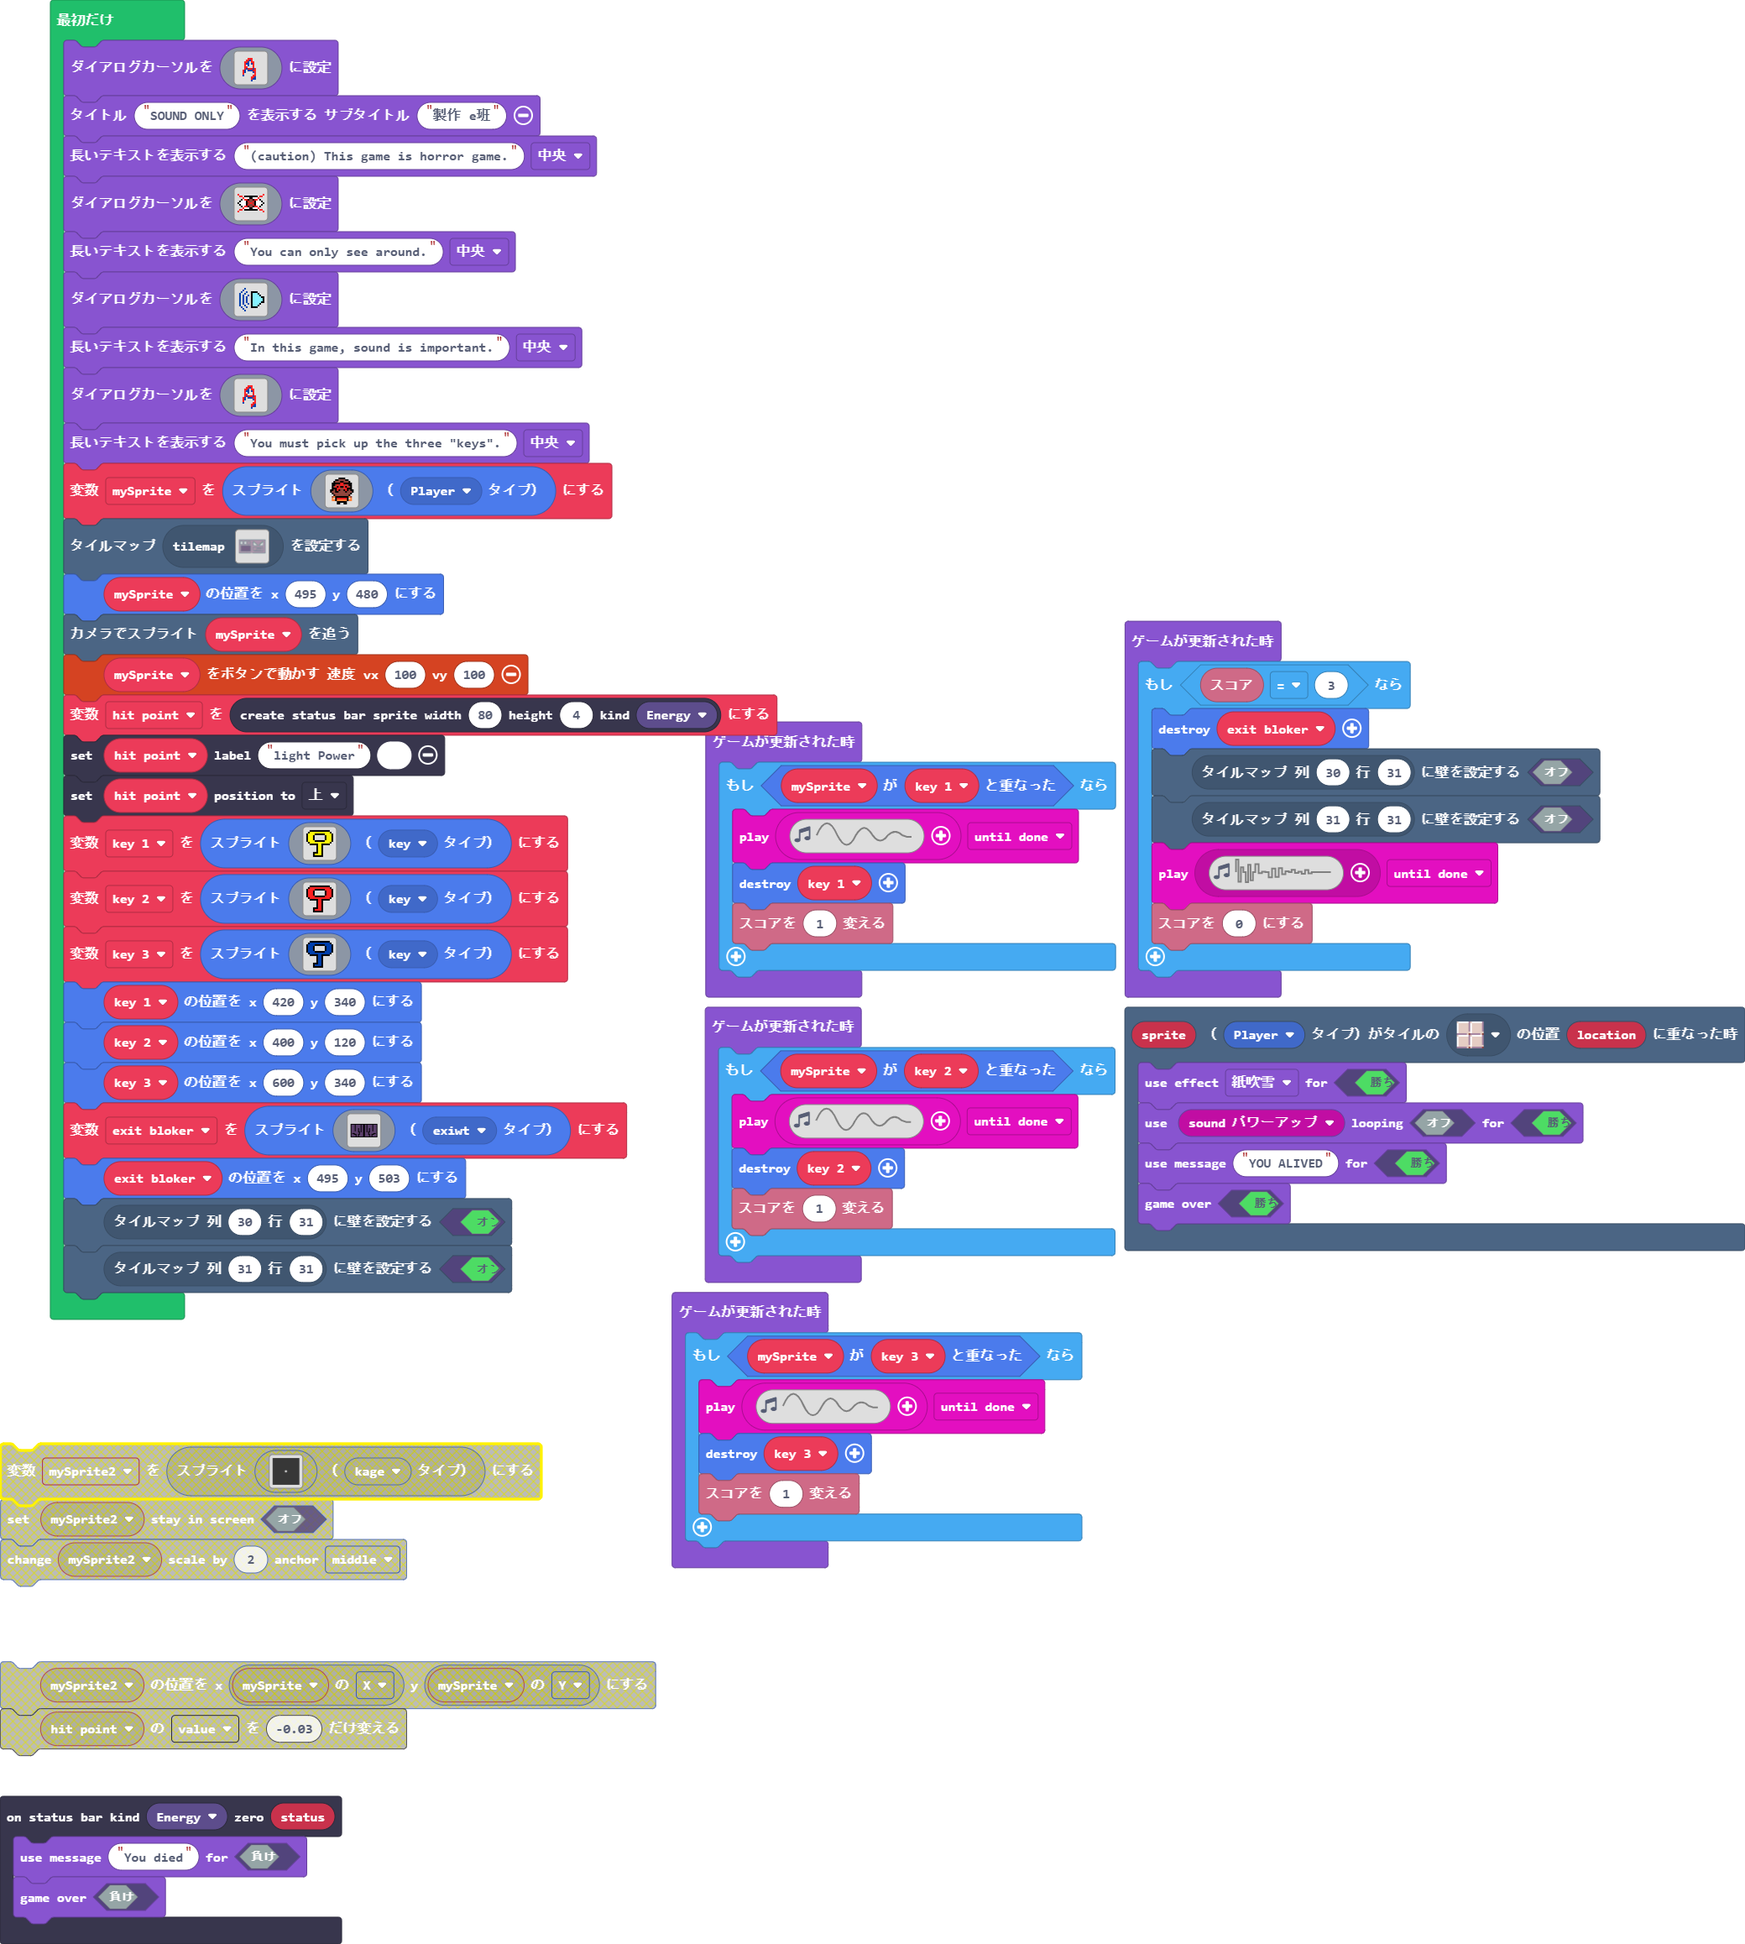
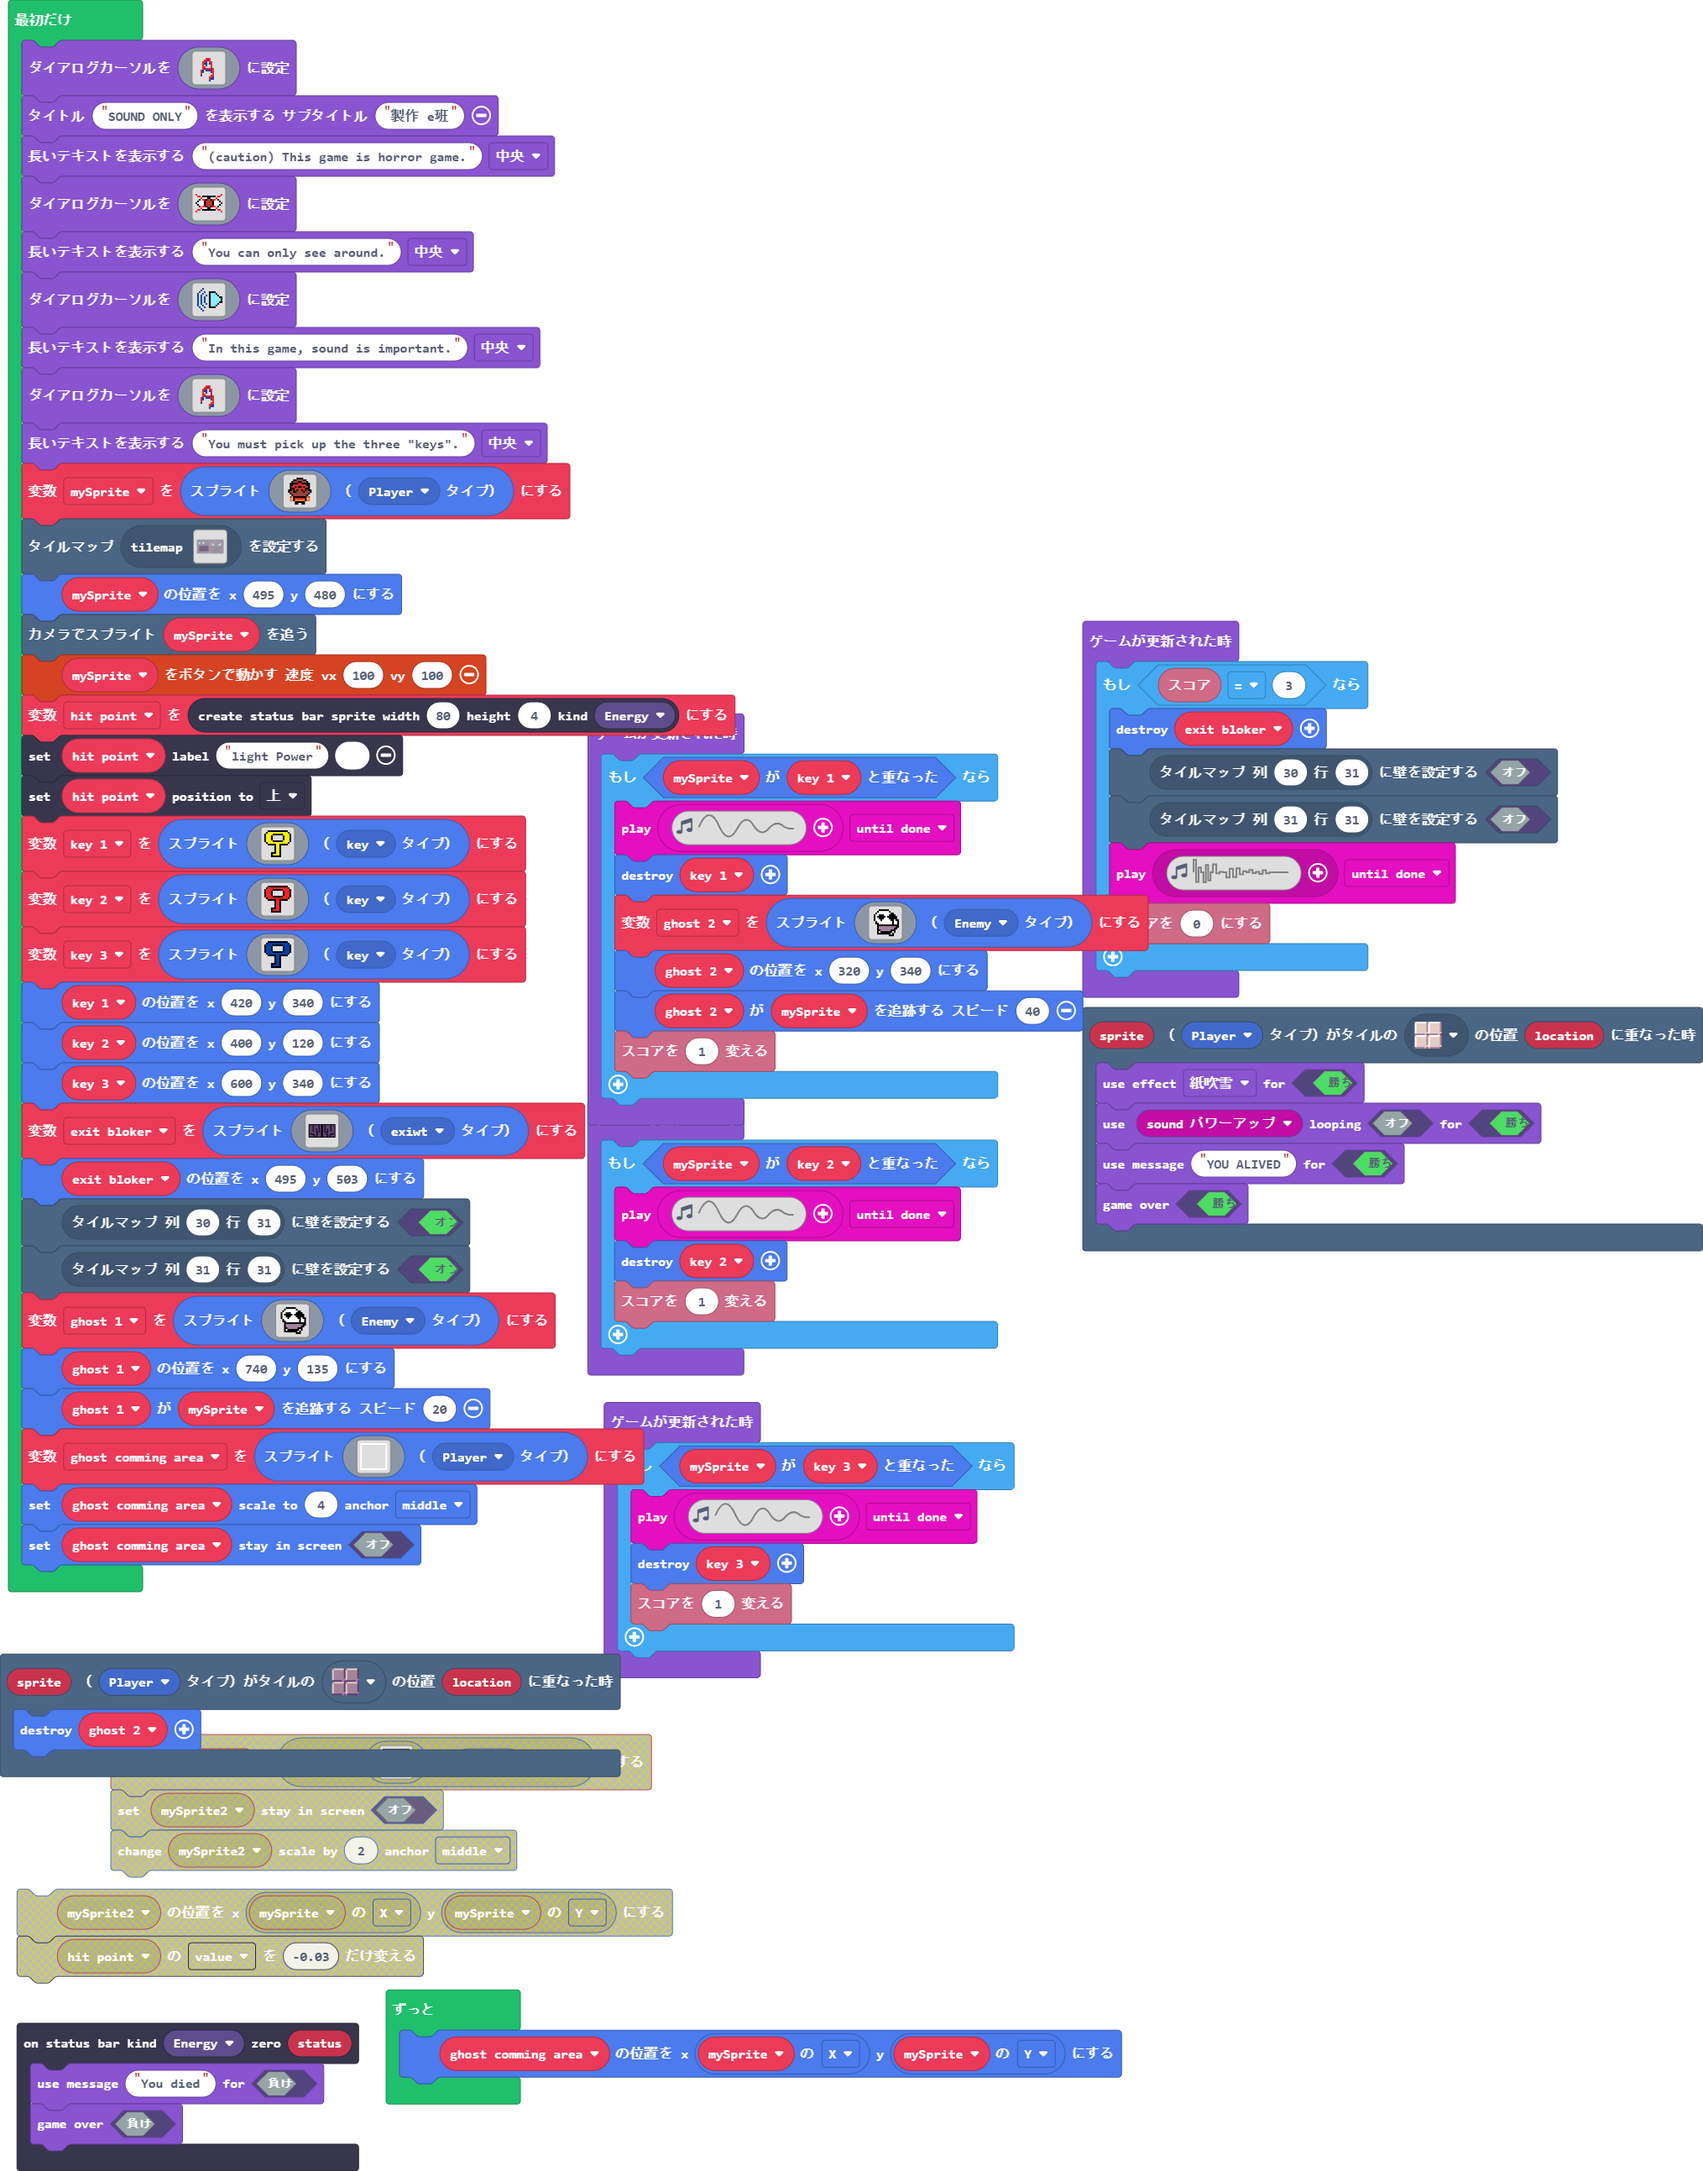
更新 main.blocks, main.ts, images.g.jres, images.g.ts

diff --git a/main.ts b/main.ts
@@ -11,10 +11,14 @@ scene.onOverlapTile(SpriteKind.Player, sprites.dungeon.floorLight0, function (sp
     game.setGameOverMessage(true, "YOU ALIVED")
     game.gameOver(true)
 })
+scene.onOverlapTile(SpriteKind.Player, sprites.dungeon.floorDark0, function (sprite, location) {
+    sprites.destroy(ghost_2)
+})
 statusbars.onZero(StatusBarKind.Energy, function (status) {
     game.setGameOverMessage(false, "You died")
     game.gameOver(false)
 })
+let ghost_2: Sprite = null
 game.setDialogCursor(img`
     . . . . . . . . . . . . . . . . 
     . . . . . . . . . . . . . . . . 
@@ -127,6 +131,29 @@ let exit_bloker = sprites.create(assets.image`myImage2`, SpriteKind.exiwt)
 exit_bloker.setPosition(495, 503)
 tiles.setWallAt(tiles.getTileLocation(30, 31), true)
 tiles.setWallAt(tiles.getTileLocation(31, 31), true)
+let ghost_1 = sprites.create(assets.image`myImage4`, SpriteKind.Enemy)
+ghost_1.setPosition(740, 135)
+ghost_1.follow(mySprite, 20)
+let ghost_comming_area = sprites.create(img`
+    1 1 1 1 1 1 1 1 1 1 1 1 1 1 1 1 
+    1 . . . . . . . . . . . . . . 1 
+    1 . . . . . . . . . . . . . . 1 
+    1 . . . . . . . . . . . . . . 1 
+    1 . . . . . . . . . . . . . . 1 
+    1 . . . . . . . . . . . . . . 1 
+    1 . . . . . . . . . . . . . . 1 
+    1 . . . . . . . . . . . . . . 1 
+    1 . . . . . . . . . . . . . . 1 
+    1 . . . . . . . . . . . . . . 1 
+    1 . . . . . . . . . . . . . . 1 
+    1 . . . . . . . . . . . . . . 1 
+    1 . . . . . . . . . . . . . . 1 
+    1 . . . . . . . . . . . . . . 1 
+    1 . . . . . . . . . . . . . . 1 
+    1 1 1 1 1 1 1 1 1 1 1 1 1 1 1 1 
+    `, SpriteKind.Player)
+ghost_comming_area.setScale(4, ScaleAnchor.Middle)
+ghost_comming_area.setStayInScreen(false)
 game.onUpdate(function () {
     if (info.score() == 3) {
         sprites.destroy(exit_bloker)
@@ -140,6 +167,9 @@ game.onUpdate(function () {
     if (mySprite.overlapsWith(key_1)) {
         music.play(music.createSoundEffect(WaveShape.Sine, 1069, 2731, 255, 0, 100, SoundExpressionEffect.Vibrato, InterpolationCurve.Curve), music.PlaybackMode.UntilDone)
         sprites.destroy(key_1)
+        ghost_2 = sprites.create(assets.image`myImage4`, SpriteKind.Enemy)
+        ghost_2.setPosition(320, 340)
+        ghost_2.follow(mySprite, 40)
         info.changeScoreBy(1)
     }
 })
@@ -156,4 +186,7 @@ game.onUpdate(function () {
         sprites.destroy(key_3)
         info.changeScoreBy(1)
     }
+})
+forever(function () {
+    ghost_comming_area.setPosition(mySprite.x, mySprite.y)
 })

diff --git a/images.g.ts b/images.g.ts
@@ -79,6 +79,25 @@ fcccccfccfcccccffcccccfccfcccccf
 fcccccfccfcccccffcccccfccfcccccf
 ffffffffffffffffffffffffffffffff
 `;
+            case "image6":
+            case "myImage4":return img`
+. . . . f f f f f f . . . . . . 
+. . . f 1 1 1 1 1 1 f . . . . . 
+. . f 1 1 1 1 1 1 1 1 f f . . . 
+. f 1 1 f f f 1 1 1 f f f f . . 
+. f 1 f f f f f 1 f f f f f f . 
+. f 1 1 f f f 1 1 1 f f f f f . 
+. f 1 1 1 f 1 1 1 1 1 f f 1 f f 
+. . f 1 1 1 1 1 1 1 1 1 f 1 1 f 
+. . f f 1 1 1 1 1 1 1 1 f 1 1 f 
+. . . f f f f f f f f f f f f f 
+. . . f b b b b b b b b b b f f 
+. . . f b b b b b b b b b f f . 
+. . . f f b b b b b b f f f . . 
+. . . f 1 f f f f f f f 1 f . . 
+. . . f f f f f f f f 1 f . . . 
+. . . . . . . . . . f f f . . . 
+`;
         }
         return null;
     })
